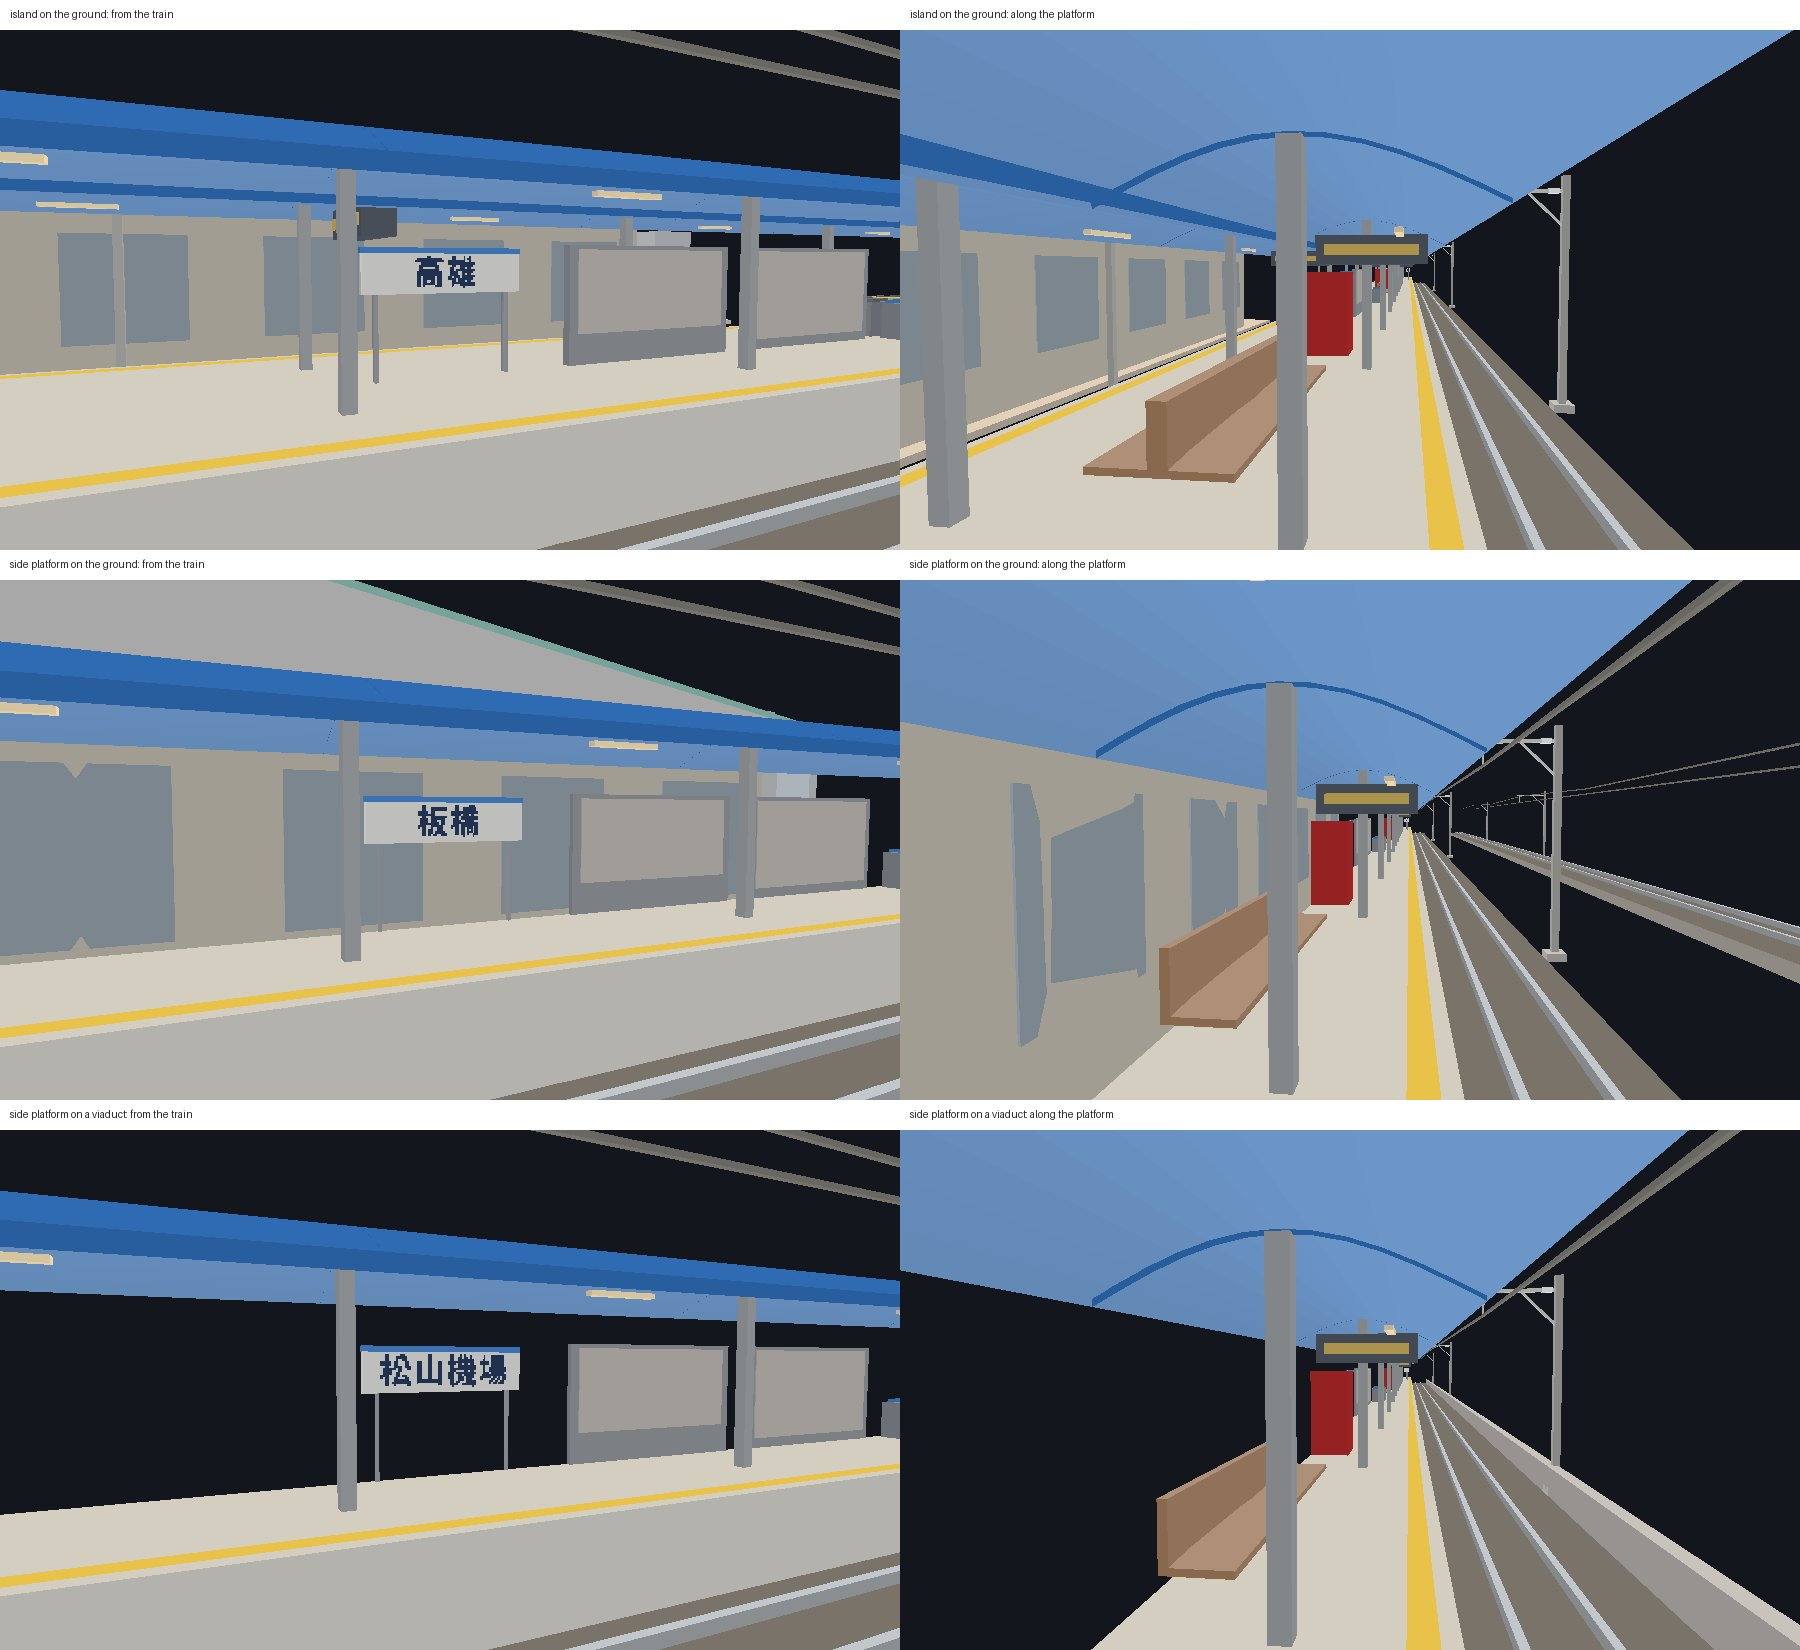
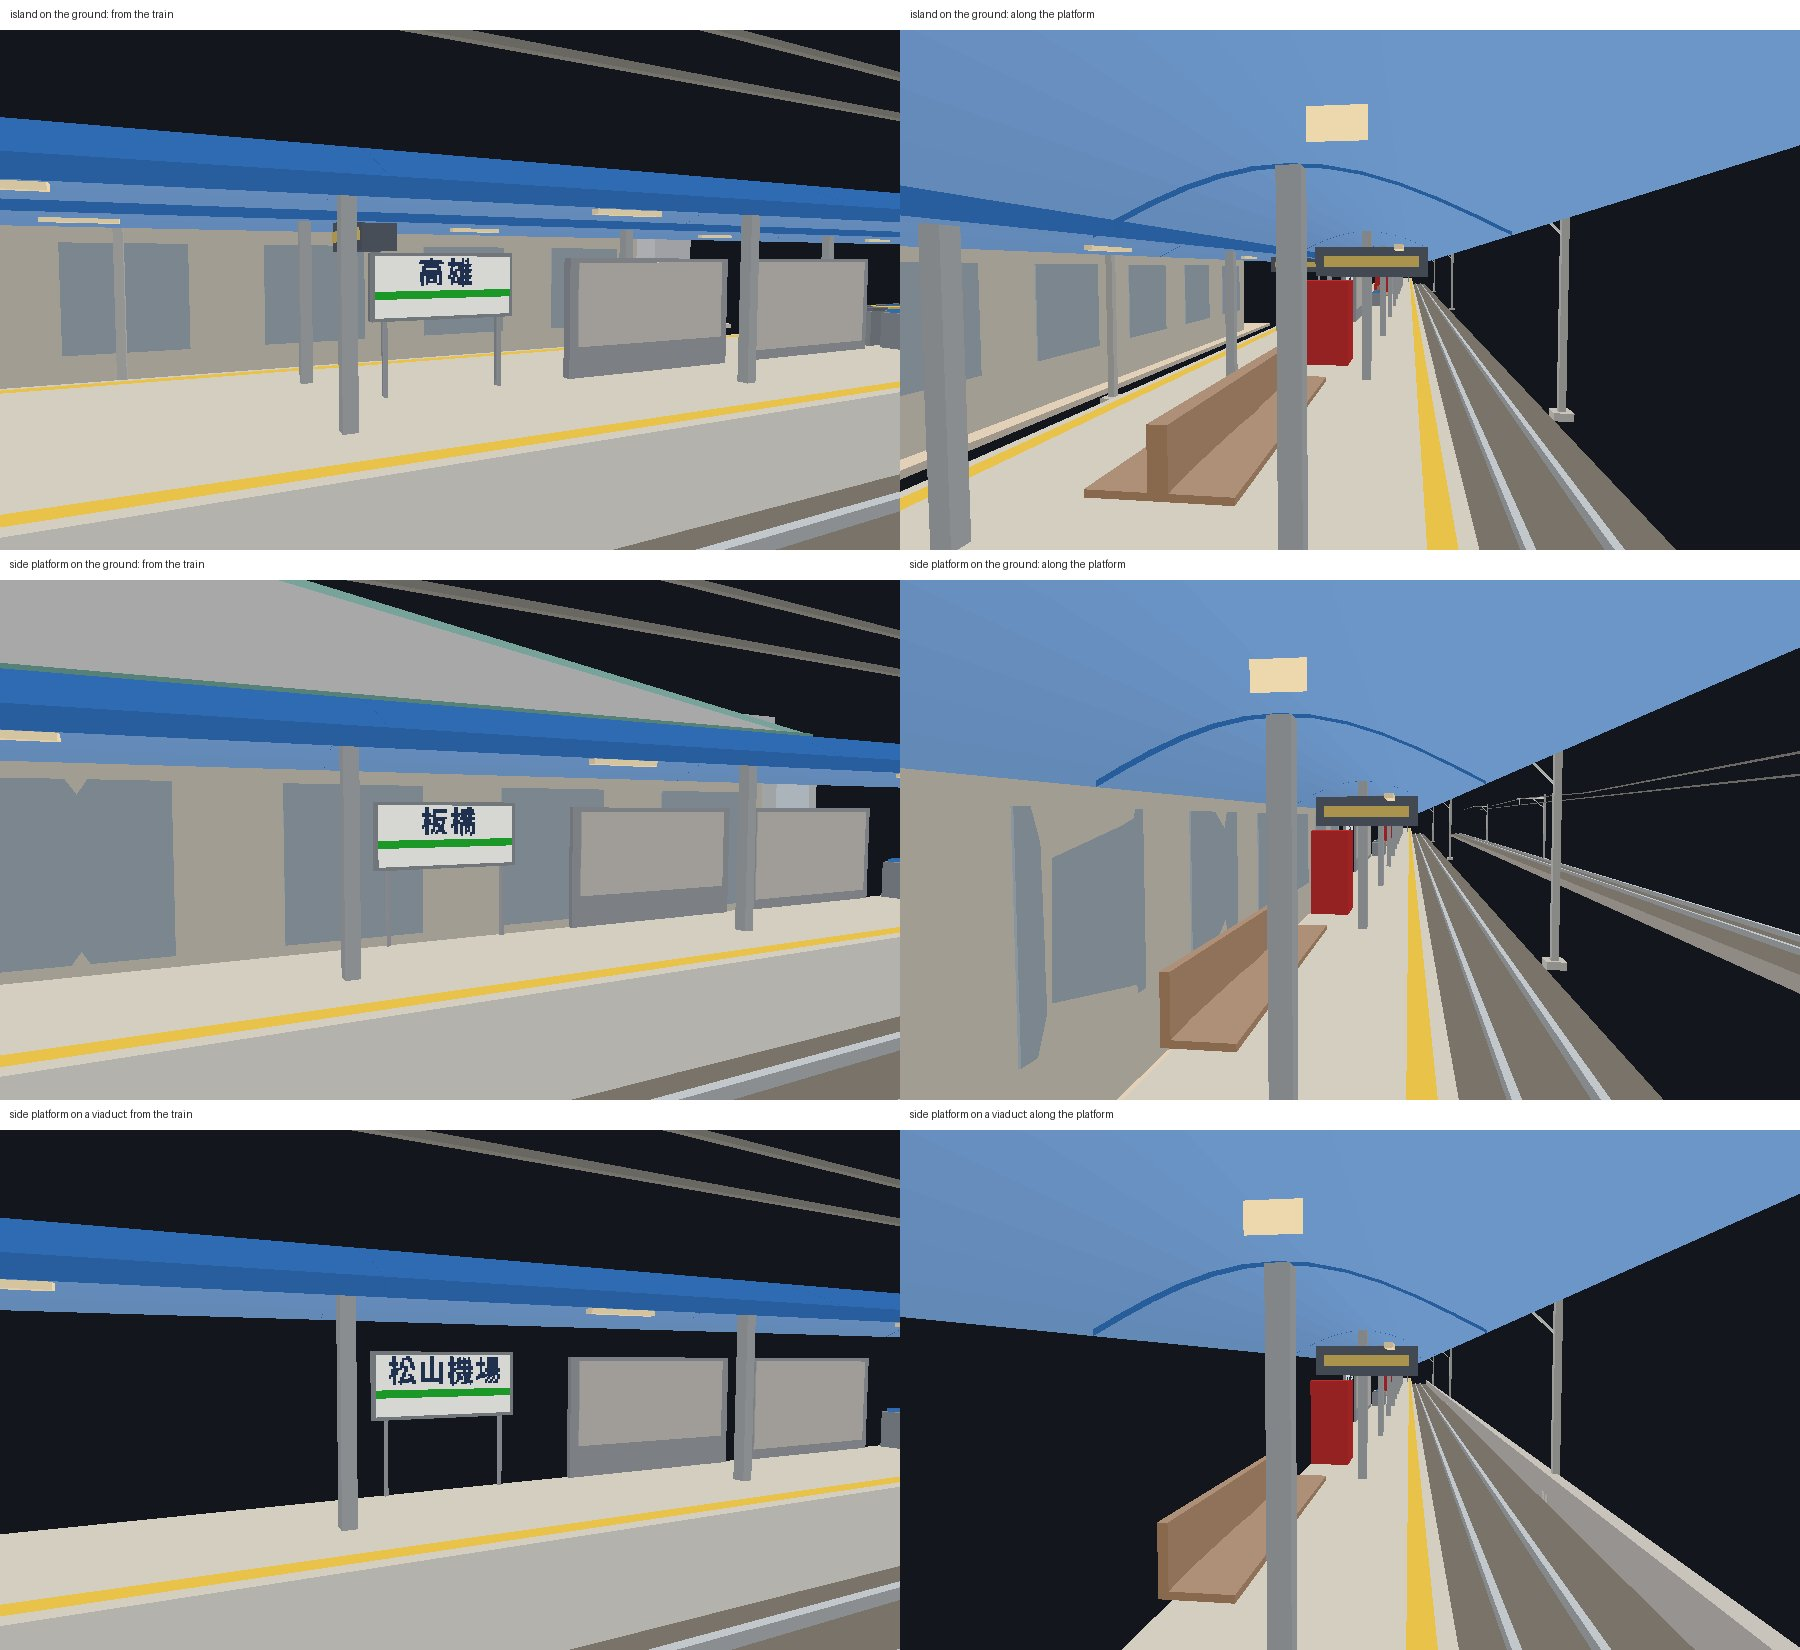
Name boards after the old version's (45e46be7, 460efb19): grey frame, white face, green band
Claude-Session: https://claude.ai/code/session_01YGNNukvMbZgvR1yfXSRtfd

diff --git a/Sources/GamePresentation/Map3DPlatformNameBoards.swift b/Sources/GamePresentation/Map3DPlatformNameBoards.swift
@@ -69,13 +69,22 @@ public enum Map3DBoardGlyphs {
 }
 
 extension Map3DPlatformProps {
-    /// A name board: its face ``nameBoardLength`` long and
-    /// ``nameBoardHeight`` tall, its foot ``nameBoardFoot`` over the
-    /// platform, on two posts at the platform's back.
-    static let nameBoardLength: Float = 3
-    static let nameBoardHeight: Float = 0.8
-    static let nameBoardFoot: Float = 1.5
+    /// A name board, the old version's (SwiftRailMac's side platform
+    /// modules `45e46be7` and `460efb19`: 4.1 m by 1.77 m, scaled as the
+    /// furniture by 0.66): ``nameBoardLength`` long and
+    /// ``nameBoardHeight`` tall in its grey frame, its foot
+    /// ``nameBoardFoot`` over the platform, on two posts at the
+    /// platform's back.
+    static let nameBoardLength: Float = 2.7
+    static let nameBoardHeight: Float = 1.17
+    static let nameBoardFoot: Float = 1.3
     static let nameBoardDepth: Float = 0.1
+    /// The frame's width round the white face.
+    static let nameBoardFrame: Float = 0.06
+    /// The old board's green band across its face, from its bottom (a
+    /// share of the face's height), and its colour off the old texture.
+    static let nameBoardBand: ClosedRange<Float> = 0.30...0.43
+    public static let nameBoardGreen = Map3DColor.rgb(0x106118)
     /// Where along the old version's module (decision 860) a board
     /// stands: in its one long gap, between the square column and the
     /// poster boards (21.2 to 28.5 m), under the second hung sign.
@@ -114,14 +123,16 @@ extension Map3DPlatformProps {
 
 extension Map3DScene.Builder {
     /// Decision 882: a name board with its foot's middle at `foot` (the
-    /// platform's back), facing `out` (towards the track), `name` on its
-    /// face in navy on white, a band of the canopy's blue along its top;
-    /// its face lit at night (`underground`: always).
+    /// platform's back), facing `out` (towards the track), as the old
+    /// version's: a white face in a grey frame, a green band across it,
+    /// `name` in navy over the band; its face lit at night
+    /// (`underground`: always).
     static func addNameBoard(_ mesh: inout Map3DMesh, foot: Map3DPoint, out: Map3DPoint, name: String, underground: Bool) {
         typealias Props = Map3DPlatformProps
         guard let out = Map3DPoint(out.x, 0, out.z).normalized else { return }
         let along = Map3DPoint(-out.z, 0, out.x)
         let length = Props.nameBoardLength, height = Props.nameBoardHeight, depth = Props.nameBoardDepth
+        let frame = Props.nameBoardFrame
         let middle = foot + out * (depth / 2)
         // The two posts, a little in from its ends.
         for end: Float in [-1, 1] {
@@ -129,26 +140,33 @@ extension Map3DScene.Builder {
                         height: Props.nameBoardFoot, top: Map3DPalette.steel, side: Map3DPalette.steel)
         }
         let board = middle + Map3DPoint(0, Props.nameBoardFoot, 0)
-        let first = mesh.vertices.count
         mesh.addBox(base: board, forward: along, length: length, width: depth, height: height,
-                    top: Map3DPalette.sidewalk, side: Map3DPalette.sidewalk)
+                    top: Map3DPalette.rail, side: Map3DPalette.rail)
+        // The face, a little proud of the frame on the track's side.
+        let faceLength = length - 2 * frame, faceHeight = height - 2 * frame
+        let face = board + out * (depth / 2 + 0.005) + Map3DPoint(0, frame, 0)
+        // The reader, facing the board from the track, reads to their right.
+        let right = Map3DPoint(out.z, 0, -out.x)
+        func quad(_ x0: Float, _ y0: Float, _ x1: Float, _ y1: Float, _ lift: Float, _ colour: UInt32) {
+            func corner(_ x: Float, _ y: Float) -> Map3DPoint { face + out * lift + right * x + Map3DPoint(0, y, 0) }
+            mesh.addQuad(corner(x0, y0), corner(x1, y0), corner(x1, y1), corner(x0, y1), color: colour)
+        }
+        let first = mesh.vertices.count
+        quad(-faceLength / 2, 0, faceLength / 2, faceHeight, 0, Map3DPalette.sidewalk)
         if underground { mesh.makeGlowing(from: first) } else { mesh.makeNightLit(from: first) }
-        mesh.addBox(base: board + Map3DPoint(0, height - 0.1, 0), forward: along, length: length + 0.02, width: depth + 0.02, height: 0.1,
-                    top: Map3DPalette.canopy, side: Map3DPalette.canopy)
-        // The name, as large as fits under the band.
+        let band = Props.nameBoardBand
+        quad(-faceLength / 2, faceHeight * band.lowerBound, faceLength / 2, faceHeight * band.upperBound, 0.004, Props.nameBoardGreen)
+        // The name over the band, as large as fits.
         let text = Map3DBoardGlyphs.layout(name)
         guard text.width > 0 else { return }
         let grid = Float(Map3DBoardGlyphs.grid)
-        let cell = min(0.62 / grid, (length - 0.3) / Float(text.width))
-        let face = board + out * (depth / 2 + 0.01)
-        // The reader, facing the board from the track, reads to their right.
-        let right = Map3DPoint(out.z, 0, -out.x)
-        let left = -Float(text.width) * cell / 2, top = (height - 0.1) / 2 + grid * cell / 2
+        let room = faceHeight * (1 - band.upperBound)
+        let cell = min(room * 0.92 / grid, (faceLength - 0.2) / Float(text.width))
+        let left = -Float(text.width) * cell / 2, top = faceHeight * band.upperBound + room / 2 + grid * cell / 2
         for r in text.rectangles {
             let x0 = left + Float(r.x) * cell, x1 = x0 + Float(r.width) * cell
             let y1 = top - Float(r.y) * cell, y0 = y1 - Float(r.height) * cell
-            func corner(_ x: Float, _ y: Float) -> Map3DPoint { face + right * x + Map3DPoint(0, y, 0) }
-            mesh.addQuad(corner(x0, y0), corner(x1, y0), corner(x1, y1), corner(x0, y1), color: Map3DPalette.playerRim)
+            quad(x0, y0, x1, y1, 0.008, Map3DPalette.playerRim)
         }
     }
 }

diff --git a/Tests/GamePresentationTests/Map3DPlatformPropsTests.swift b/Tests/GamePresentationTests/Map3DPlatformPropsTests.swift
@@ -401,14 +401,19 @@ final class Map3DPlatformPropsTests: XCTestCase {
         b.addPlatformProps()
         let top = Map3DScene.railLift + Builder.platformHeight
         let all = b.closeMeshes.values.flatMap(\.vertices)
-        // The face, white, from 1.5 to 2.3 m up, against the back (z 4.8).
-        let face = all.filter { $0.color == Map3DPalette.sidewalk && $0.y > top + 1.4 && $0.z > 4 }
+        // The face, white in a grey frame, from 1.36 to 2.41 m up, against
+        // the back (z 4.8), lit at night, facing the track; the green band across it.
+        let face = all.filter { $0.color == Map3DPalette.sidewalk && $0.y > top + 1.3 && $0.z > 4 }
         XCTAssertFalse(face.isEmpty)
-        XCTAssertTrue(face.allSatisfy { $0.z >= 4.69 && $0.z <= 4.801 && $0.y <= top + 2.301 && $0.layer == Map3DVertex.nightLit })
-        // The name in front of it, on the track's side, facing the track.
-        let ink = all.filter { $0.color == Map3DPalette.playerRim && $0.y > top + 1.4 && $0.z > 4 }
+        XCTAssertTrue(face.allSatisfy {
+            abs($0.z - 4.695) < 0.001 && $0.y >= top + 1.359 && $0.y <= top + 2.411 && $0.layer == Map3DVertex.nightLit && $0.nz < -0.99
+        })
+        XCTAssertTrue(all.contains { $0.color == Props.nameBoardGreen && $0.z > 4 })
+        // The name over the band, in front of the face.
+        let ink = all.filter { $0.color == Map3DPalette.playerRim && $0.y > top + 1.3 && $0.z > 4 }
         XCTAssertFalse(ink.isEmpty)
-        XCTAssertTrue(ink.allSatisfy { abs($0.z - 4.69) < 0.001 && $0.nz < -0.99 })
+        let band = top + 1.36 + 1.05 * Props.nameBoardBand.upperBound
+        XCTAssertTrue(ink.allSatisfy { abs($0.z - 4.687) < 0.001 && $0.nz < -0.99 && $0.y >= band - 0.001 && $0.y <= top + 2.411 })
         // Three boards, each name's two characters.
         let xs = ink.map(\.x).sorted()
         XCTAssertEqual(zip(xs, xs.dropFirst()).filter { $1 - $0 > 5 }.count + 1, 3)

diff --git a/docs/decisions/882.md b/docs/decisions/882.md
@@ -18,24 +18,30 @@
    中間那一組放一面，往兩端每隔一組再放一面（200 m 月台三面、80 m 一面）。
    在空檔裡前後挪，避開垃圾桶（兩端隔 0.5 m）和雨棚柱（隔 0.4 m，免得從車上看被柱子擋住），挪不開就不放。
    月台太窄（側式不到 2.8 m、島不到 3 m）或不到 40 m 不放，和家具同一條線；機廠不放。
-3. **樣子**：3 m × 0.8 m 白底（`sidewalk`）、深藍字（`playerRim`，和停車位置牌同色）、上緣一條雨棚藍（`canopy`）帶，
-   底邊離月台 1.5 m，兩根 `steel` 柱。沒有新色。字盤入夜亮（地面以上和吊牌一樣，地下一直亮）。
+3. **樣子照舊版站牌**（SwiftRailMac 側式月台模組 `45e46be7`、`460efb19` 吊在雨棚下的站名牌：4.1 m × 1.77 m，
+   灰框白底，中間偏下一條深綠帶，站名在綠帶上方，英文在下方；貼圖 64×2048 圖集的第 672–697 列）：
+   照家具的 0.66 倍縮成 2.7 m × 1.17 m，灰框（`rail`）、白底（`sidewalk`）、綠帶（取自舊貼圖的 `0x106118`，
+   `nameBoardGreen`，唯一的新色）在字面高度的 30–43%，站名深藍（`playerRim`，和停車位置牌同色）寫在綠帶上方。
+   舊版是吊在雨棚下（月台面以上 5.1 m，縮後 3.4 m），比遊戲的雨棚（3.2 m）還高、也會和決策 874 的吊牌搶位置，
+   所以改成立在月台背面兩根 `steel` 柱上，底邊離月台 1.3 m。字面入夜亮（地面以上和吊牌一樣，地下一直亮）。
 4. **字**：站名照遊戲裡的名字（玩家改過名就是新名字），整行盡量大（字高 0.62 m），太長就整體縮到放得下。
    字形是 Noto Sans TC Bold（SIL Open Font License 1.1）在 16×16 格上點陣化、併成長方形
    （`tools/platform-name-board/build_glyphs.py` 產生 `Map3DBoardGlyphsData.swift`），
    收 App 內所有 JSON 用到的字（3,371 個：台灣、香港、福岡、羅瓦涅米的站名與地名、假名、拉丁字母）；
    字形表沒有的字略過不畫。資料來源頁加一筆「Noto Sans TC」（`platformNameBoards`），授權條款已隨 App（`NotoSans-OFL.txt`，同一份 OFL 1.1）。
 
-**舊版查了什麼。** 評分檔寫舊版多個月台模組帶站牌（例 `45e46be7`、`460efb19`）。舊版模型目錄
-（`~/SwiftRailMac/assets/model-catalog/`）只在作者的 Mac 上，這次雲端工作串沒有連線，沒有打開那兩個模型；
-參考庫（`railway-reference-private`）與 assets、assets-2 用 `45e46be7`、`460efb19`、`catalog.csv` 搜過，沒有副本。
-所以站名牌的大小與樣子照台鐵月台常見的白底站名牌自訂，位置規則接決策 874。舊版模組的站牌若要對照，下次在 Mac 上看。
+**舊版查了什麼。** 作者 Mac 上的舊版目錄 `~/SwiftRailMac/assets/model-catalog/catalog.csv`（15,812 筆）搜「站名、站牌」：
+帶站名牌的月台模組約 30 個（側式 `45e46be7`、`460efb19`、`4f237e969`、`9fd1dbe1` 等，島式 `53fe028f`、`b4135c39`，
+雨棚 `431ffdb3`、`af164cbf` 吊站牌，一端立橢圓站牌的 80 m 平台 `29f50756`、`700b68f7`）。打開 `45e46be7`、`460efb19` 的 GLB
+（單一網格、64×2048 貼圖圖集），拆出站名牌：4.1 m 長、1.77 m 高、0.64 m 厚，兩根吊桿吊在雨棚下，面向軌道，
+貼圖是灰框白底加深綠帶。兩個模組的站牌一模一樣，只差在模組裡的位置。造型照它做，見上面第 3 點與
+`docs/art/platform-name-board-2026-11/old-vs-new.jpg`（左：舊貼圖；右：遊戲裡的新牌）。
 外部：字形用 Noto Sans CJK（notofonts/noto-cjk，OFL 1.1，經 jsDelivr 下載）；GNU Unifont（系統內建的 16 點陣字）
 這版只有 GPL，沒用。
 
 **量到的**（Linux，VERIFIED）：
 
-- 一座 200 m 台鐵月台、站名「松山機場」，最近層 1,252 → 1,858 個三角形（三面站名牌，每面約 200）；捷運月台 1,134 → 1,740。
+- 一座 200 m 台鐵月台、站名「松山機場」，最近層 1,252 → 1,840 個三角形（三面站名牌，每面約 200）；捷運月台 1,134 → 1,722。
   `testTrianglesAPlatformAdds` 的上限 2,500 不變。
 - `Map3DPlatformPropsTests` 23 支（新 3 支：字形表寫得出各地圖的站名、站名牌在模組空檔且避垃圾桶與雨棚柱、
   場景裡只在最近層、貼背面、面向軌道、入夜亮）與 `UndergroundStationsTests` 全過；`RealRailwaysTests.testEverySourceIsCredited` 過。
@@ -49,11 +55,11 @@
 - 鐵道迷：真的月台每隔一段就有站名牌，立在月台背面、面向軌道，島式兩面背對背；沒有英文與前後站（遊戲的車站只有一個名字）。
 - 開發：一條純函式規則接在決策 874 後面、有 Linux 測試；字形表是產生的程式碼（約 200 KB），第一次用時解開；
   每座月台約多六百個三角形，只在最近層；沒有新格式、著色器或相依。
-- 美術：白底深藍字配雨棚藍帶，全用現有色票；點陣字在近看時有一點階梯，遠一點看不出來。
+- 美術：照作者舊版站牌的灰框、白底、綠帶，綠色取自舊貼圖；點陣字在近看時有一點階梯，遠一點看不出來。
 - 音樂：無。
 
 **沒做的。** 英文站名與前後站（遊戲的車站只有一個名字）；地下站把站名寫在軌道對面牆上（台北捷運、港鐵的做法）；
-舊版站牌模型的對照（要在作者的 Mac 上看）。
+舊版是吊在雨棚下，這裡改成立柱（理由見第 3 點）。
 
 **UNVERIFIED。** 只在 Linux 跑建置與測試、看平塗預覽；沒有在 App、Simulator 或實機看過
 （Metal 的光影、入夜亮的樣子、近看的字、和月台上的人是否重疊、地下島式月台實際的樣子都沒驗）。

diff --git a/docs/handoff/PLATFORM-NAME-BOARD.md b/docs/handoff/PLATFORM-NAME-BOARD.md
@@ -12,7 +12,7 @@
 ## 還留下什麼
 
 - 英文站名與前後站、地下站寫在軌道對面牆上的站名：沒做（評分檔 PLATFORM-FURNITURE.md）。
-- 舊版站牌模型 `45e46be7`、`460efb19` 沒打開對照（只在作者 Mac 的舊版目錄）。
+- 造型照舊版 `45e46be7`／`460efb19` 的站牌（灰框白底綠帶），但舊版吊在雨棚下，這裡立在背面柱上（雨棚太低）。
 
 ## UNVERIFIED
 

diff --git a/docs/art/platform-name-board-2026-11/README.md b/docs/art/platform-name-board-2026-11/README.md
@@ -11,3 +11,5 @@ python3 -I tools/platform-name-board/preview.py /tmp/furniture.json docs/art/pla
 ```
 
 字形：Noto Sans TC Bold（SIL Open Font License 1.1），`tools/platform-name-board/build_glyphs.py` 轉成方塊。
+
+`old-vs-new.jpg`：左邊是舊版（SwiftRailMac `item_45e46be7…glb`）站名牌的貼圖，右邊是遊戲裡照它做的新站名牌。
